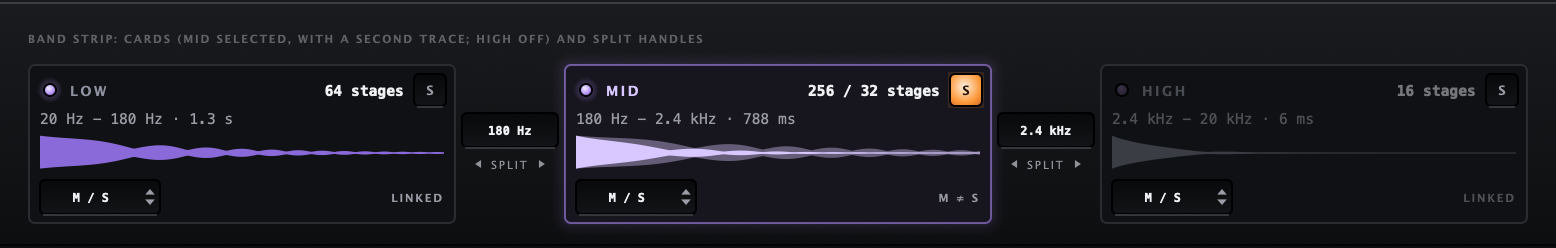
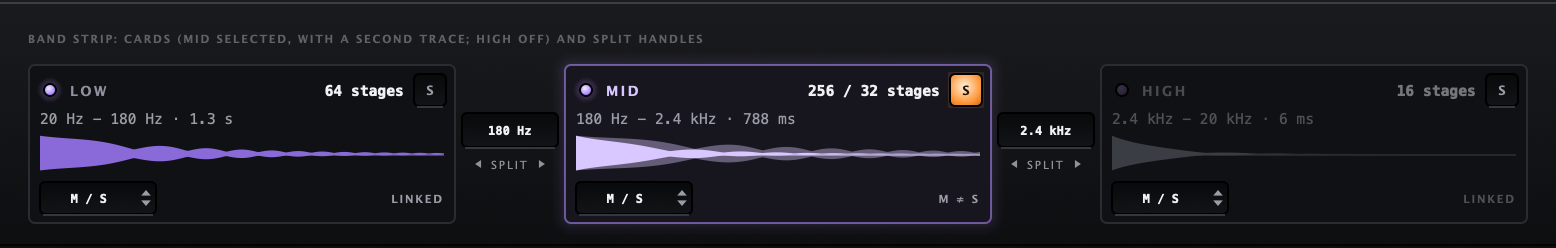
Drop-downs: a 58 x 16 box, like the square buttons' 16
A drop-down (StepBox with names, and the Stages box) is now 62 x 18, its box 58 x 16: in a section
header it ends 2 px above the rule, as the grip does, and two drop-downs in neighbouring 60 px
columns keep the same 2 px apart. The box is drawn as before (the bottom strip's boxes, which set
their own size, are unchanged). The longest names in use (PHASE SMEAR, LO-FI TWINS) still fit.
Gallery sheets with drop-downs re-recorded.

Hyper! Hyper! Dimension: only its Spacey Mode drop-down changes (2 px narrower, 1 px shorter;
screenshots re-recorded there); the null test is unchanged.

diff --git a/ui/Controls.cpp b/ui/Controls.cpp
@@ -359,7 +359,7 @@ StepBox::StepBox (juce::RangedAudioParameter& p, bool showNames, bool showArrows
     const auto r = p.getNormalisableRange();
     minValue = (int) r.start;
     maxValue = (int) r.end;
-    setSize (names ? 64 : 30, names ? 19 : 30);   // native size
+    setSize (names ? 62 : 30, names ? 18 : 30);   // native size: a 58 x 16 box, like a square button's 16
     setMouseCursor (names ? juce::MouseCursor::PointingHandCursor : juce::MouseCursor::UpDownResizeCursor);
     setTooltip (! names ? "Drag up/down, click the arrows or use the wheel. Double-click: default. Right-click: menu."
                         : arrows ? "Click: choose. Arrows or wheel: step. Right-click: menu."
@@ -372,7 +372,7 @@ void StepBox::setWideNumber (std::function<int (int, int)> rule, float px)
     wide = true;
     arrowStep = std::move (rule);
     pxPerStep = px;
-    setSize (64, 19);   // the size of a drop-down
+    setSize (62, 18);   // the size of a drop-down
     setTooltip ("Drag up/down for single steps; the arrows double / halve. Double-click: default. Right-click: menu.");
     repaint();
 }
